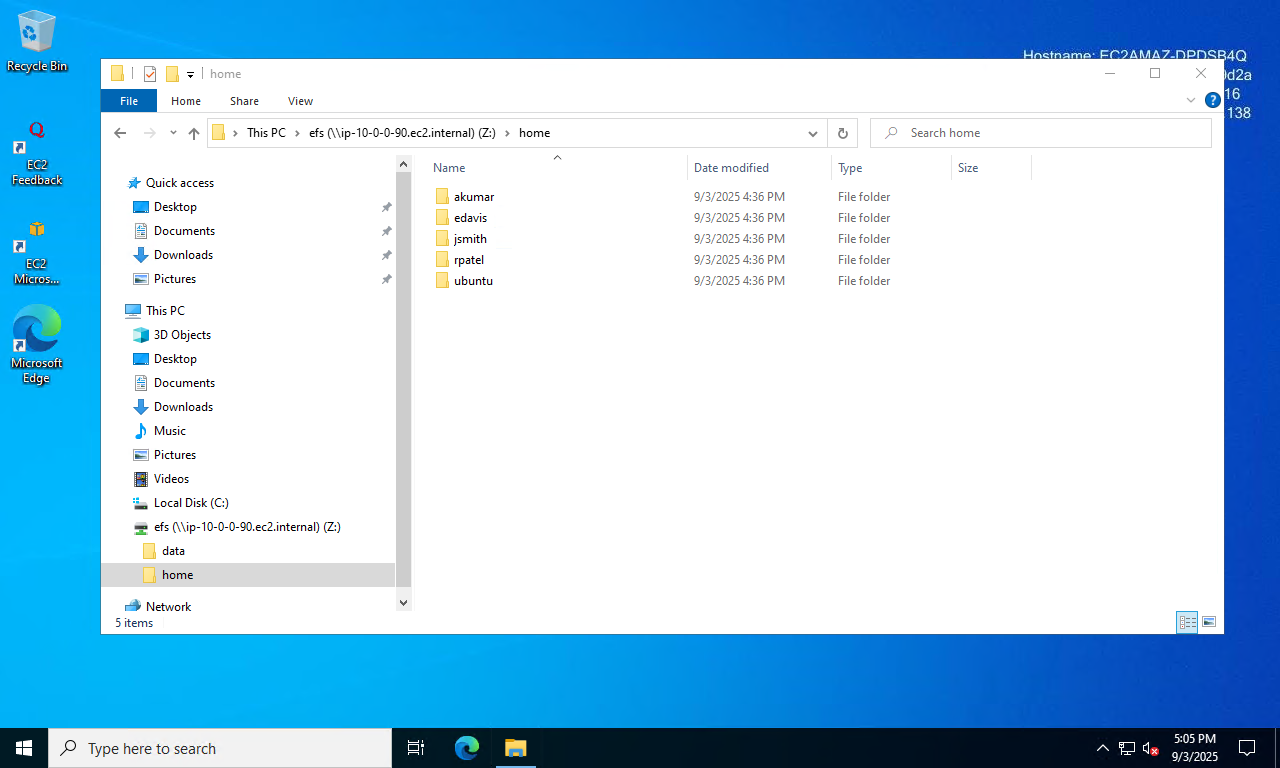
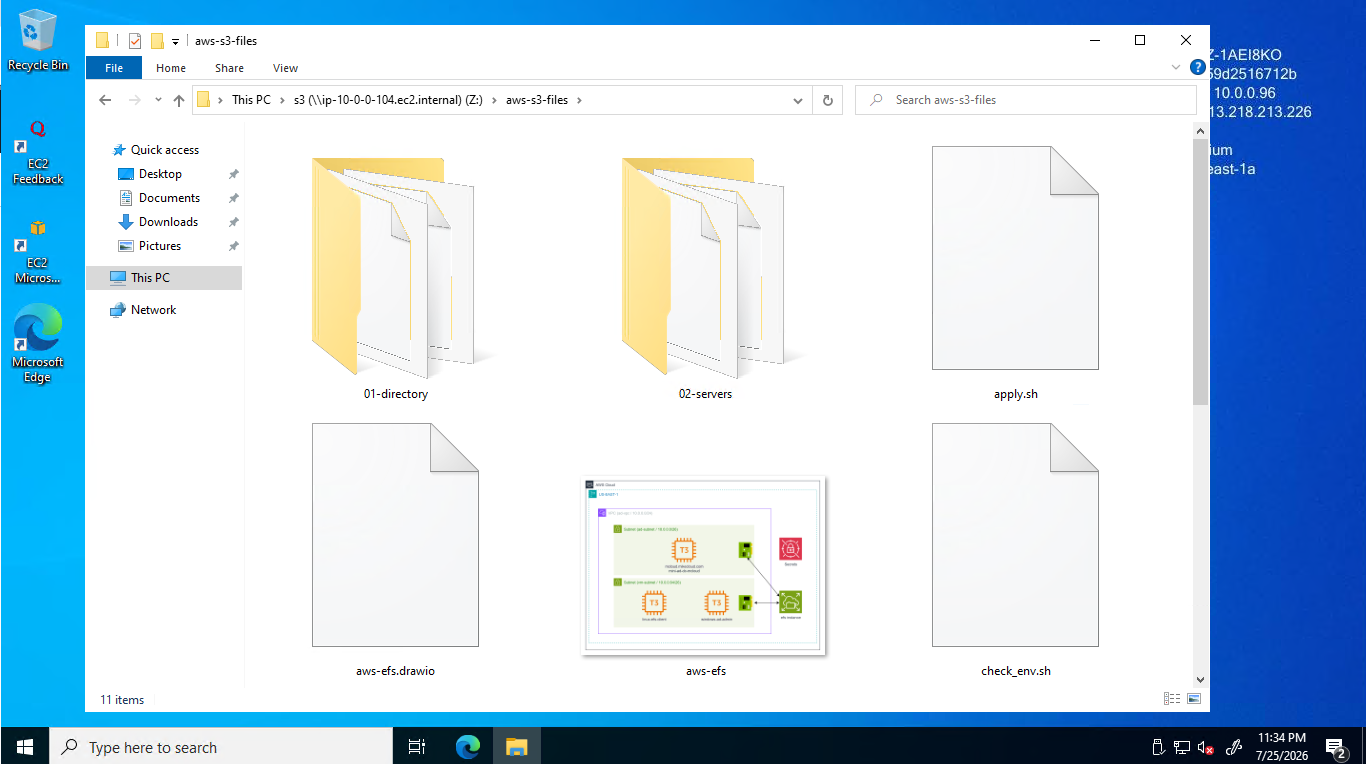
mount /home

diff --git a/README.md b/README.md
@@ -9,7 +9,7 @@ This solution exposes that storage in two ways:
 
 The mini-AD environment (Samba 4 on Ubuntu) provides Active Directory authentication and DNS. S3 Files provides file-system access to object storage. Together they enable a hybrid setup where both Linux and Windows domain-joined clients consume the same S3 bucket as files.
 
-![AWS diagram](aws-efs.png)
+![AWS diagram](aws-s3-files.png)
 
 > **Note:** The architecture diagram and console screenshots are carried over from the EFS version and still need to be regenerated to reflect S3 Files.
 
